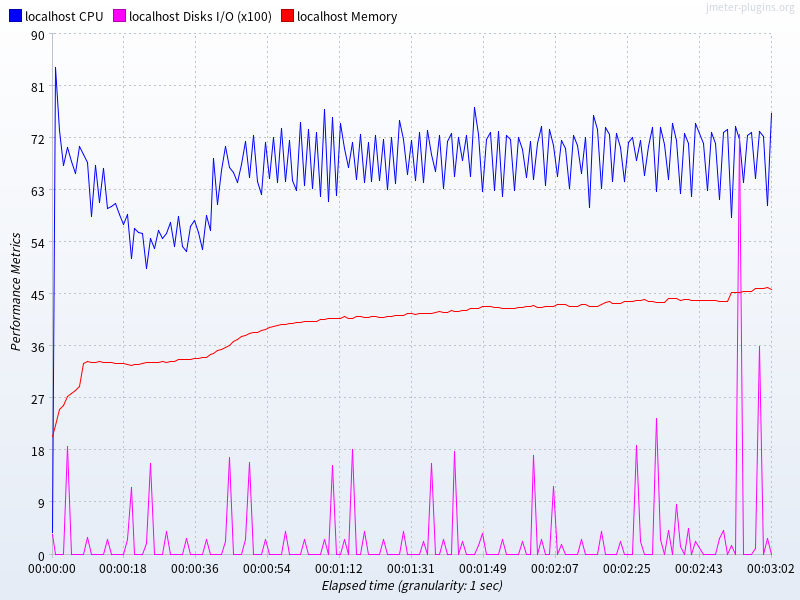
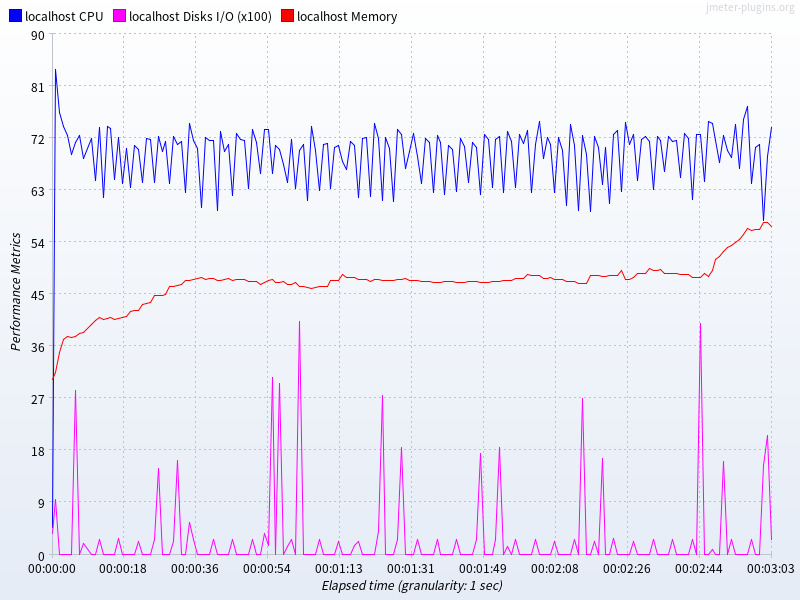
重跑vertx-native

diff --git a/性能测试报告.md b/性能测试报告.md
@@ -42,11 +42,11 @@
 | web-pm-quarkus | 5084149 | 174 | 174 | 197 | 208 | 297 | 1 | 1226 | 0.00% | 27603.8 | 3552.4 | 37.82 | 80% |
 | web-pm-rust | 3631520 | 244 | 17 | 42 | 452 | 7730 | 0 | 31882 | 0.00% | 19111.7 | 2887.2 | 1576.44 | 62% |
 | web-pm-springboot | 4461227 | 199 | 250 | 273 | 284 | 388 | 0 | 1316 | 0.00% | 24121.0 | 4892.9 | 109.51 | 83% |
-| web-pm-vertx-jar | 3686523 | 239 | 234 | 278 | 287 | 312 | 2 | 880 | 0.00% | 20248.7 | 2327.4 | 48.25 | 64% |
-| web-pm-vertx-native | 3323612 | 265 | 248 | 367 | 396 | 440 | 2 | 796 | 0.00% | 18247.5 | 2096.8 | 67.07 | 62% |
+| web-pm-vertx-jar | 5007309 | 175 | 153 | 198 | 365 | 654 | 1 | 1739 | 0.00% | 27661.3 | 3181.5 | 101.34 | 80% |
+| web-pm-vertx-native | 3863130 | 228 | 190 | 363 | 519 | 676 | 1 | 1441 | 0.00% | 21121.9 | 2428.0 | 120.20 | 65% |
 
 
-> vertx的测试发生在数据库关闭binlog之前，其他项目的测试已经在数据库关闭binlog之后重跑了。所以Vertx三个项目的性能表现应该会更好，之后会重新测试vertx的三个项目。
+这里表现最好的是`web-pm-vertx-jar`和`web-pm-quarkus`，然后是`web-pm-gin`和`web-pm-springboot`。
 
 `web-pm-dotnet`的表现不尽如人意。可能还是我们的代码没有找到正确的实现方式，或者需要一点额外的调优配置。
 
@@ -67,12 +67,14 @@ jmeter/*-account_add/5000_3m_*_monitor_report.png
 | web-pm-quarkus | 315859 | 2851 | 2947 | 3048 | 3084 | 3164 | 5 | 3912 | 0.00% | 1686.2 | 512082.3 | 461.94 | 80% |
 | web-pm-rust | 196890 | 4782 | 812 | 901 | 945 | 130768 | 8 | 222087 | 1.31% | 805.5 | 241463.3 | 21814.27 | 30% |
 | web-pm-springboot | 296372 | 3057 | 1203 | 9322 | 10764 | 11636 | 5 | 23878 | 0.00% | 1321.0 | 416746.7 | 3649.36 | 86% |
-| web-pm-vertx-jar | 494883 | 1824 | 1915 | 2001 | 2030 | 2108 | 3 | 3109 | 0.00% | 2583.8 | 847731.2 | 363.08 | 85% |
-| web-pm-vertx-native | 90795 | 9971 | 10954 | 11537 | 11702 | 12021 | 7 | 12675 | 0.00% | 473.3 | 155303.4 | 2587.65 | 27% |
+| web-pm-vertx-jar | 473477 | 1906 | 1998 | 2082 | 2108 | 2165 | 3 | 2748 | 0.00% | 2481.9 | 809442.3 | 368.31 | 85% |
+| web-pm-vertx-native | 94082 | 9622 | 10638 | 11223 | 11396 | 11695 | 8 | 12646 | 0.00% | 491.0 | 160132.2 | 2495.68 | 30% |
 
 
-这里表现最好的是vertx，其次是gin。
-> vertx没有orm功能，数据库返回的数据直接转为jsonObject，底层是LinkedHashMap，然后转为json字符串返回。而其他框架有正儿八经的ORM功能，会先映射到PO或者struct里，然后再转为json字符串返回。因此vertx占了一点空间换时间的便宜。
+这里表现最好的是`web-pm-vertx-jar`，其次是`web-pm-gin`。
+> vertx没有orm功能，数据库返回的数据直接转为jsonObject，底层是LinkedHashMap，然后转为json字符串返回。而其他框架有正儿八经的ORM功能，会先映射到PO或者struct里，然后再转为json字符串返回。这一点导致vertx在这个接口的测试上占有较大优势，vertx提高性能表现的一个思路就是这种空间换时间的做法。
+> 
+> 但实际的业务场景中，如果不方便直接使用jsonObject，或者不愿意用空间换时间，而是需要转为PO的话，那么多出的转换操作会降低vertx的性能表现，反应式编程仍然会保证它在高并发时依然有性能优势，但可能就不会有这么大的优势了，具体要取决于转换PO的效率。
 
 `web-pm-vertx-native`表现拉胯，它的native编译使用的是社区版的graalVM，再加上正好这个接口在高并发调用时确实会快速大量分配内存，这就很难让人不怀疑是社区版graalVM只支持SerialGC的锅了。。。
 
@@ -94,11 +96,11 @@ jmeter/*-account_list/5000_3m_*_monitor_report.png
 | web-pm-quarkus | 6798730 | 130 | 131 | 141 | 159 | 262 | 0 | 827 | 0.00% | 37002.7 | 14309.6 | 33.66 | 77% |
 | web-pm-rust | 5689415 | 157 | 22 | 27 | 28 | 4065 | 0 | 131201 | 0.00% | 24512.9 | 10030.9 | 1453.94 | 64% |
 | web-pm-springboot | 8070512 | 110 | 137 | 166 | 269 | 408 | 0 | 3671 | 0.00% | 43006.5 | 20285.3 | 96.43 | 88% |
-| web-pm-vertx-jar | 8151193 | 108 | 107 | 153 | 238 | 340 | 0 | 1033 | 0.00% | 44447.6 | 17666.2 | 60.52 | 77% |
-| web-pm-vertx-native | 6200705 | 142 | 138 | 172 | 280 | 307 | 0 | 659 | 0.00% | 33817.7 | 13441.2 | 52.09 | 68% |
+| web-pm-vertx-jar | 7894738 | 112 | 111 | 149 | 237 | 342 | 0 | 1153 | 0.00% | 42952.9 | 16988.2 | 59.96 | 77% |
+| web-pm-vertx-native | 6024186 | 146 | 141 | 181 | 286 | 317 | 0 | 695 | 0.00% | 32959.8 | 13035.8 | 54.22 | 68% |
 
 
-这里vertx, springboot, gin的表现都很好，其他的都有一些差距，尤其`web-pm-dotnet`很拉胯，可能还是我们的代码没有找到正确的实现方式，或者需要一点额外的调优配置。
+这里`web-pm-springboot`, `web-pm-vertx-jar`, `web-pm-gin`的表现都很好，其他的都有一些差距，尤其`web-pm-dotnet`很拉胯，可能还是我们的代码没有找到正确的实现方式，或者需要一点额外的调优配置。
 
 更具体的测试数据可参考: 
 ```
